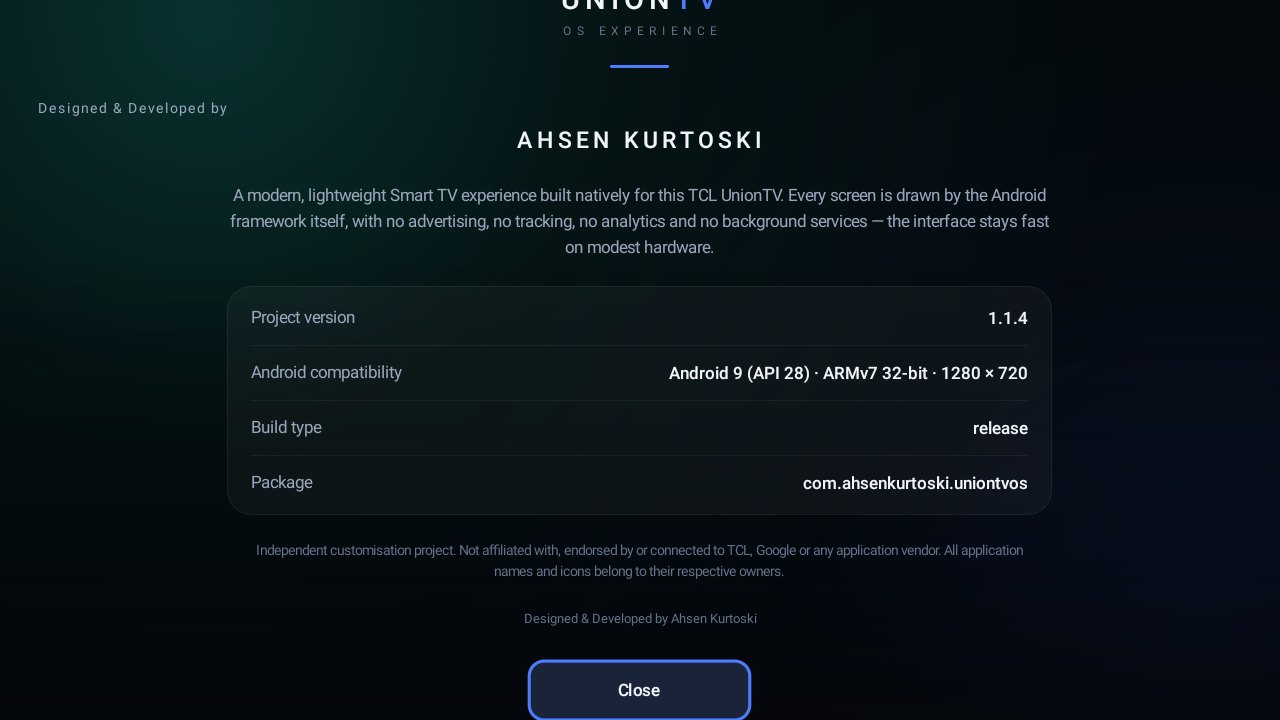
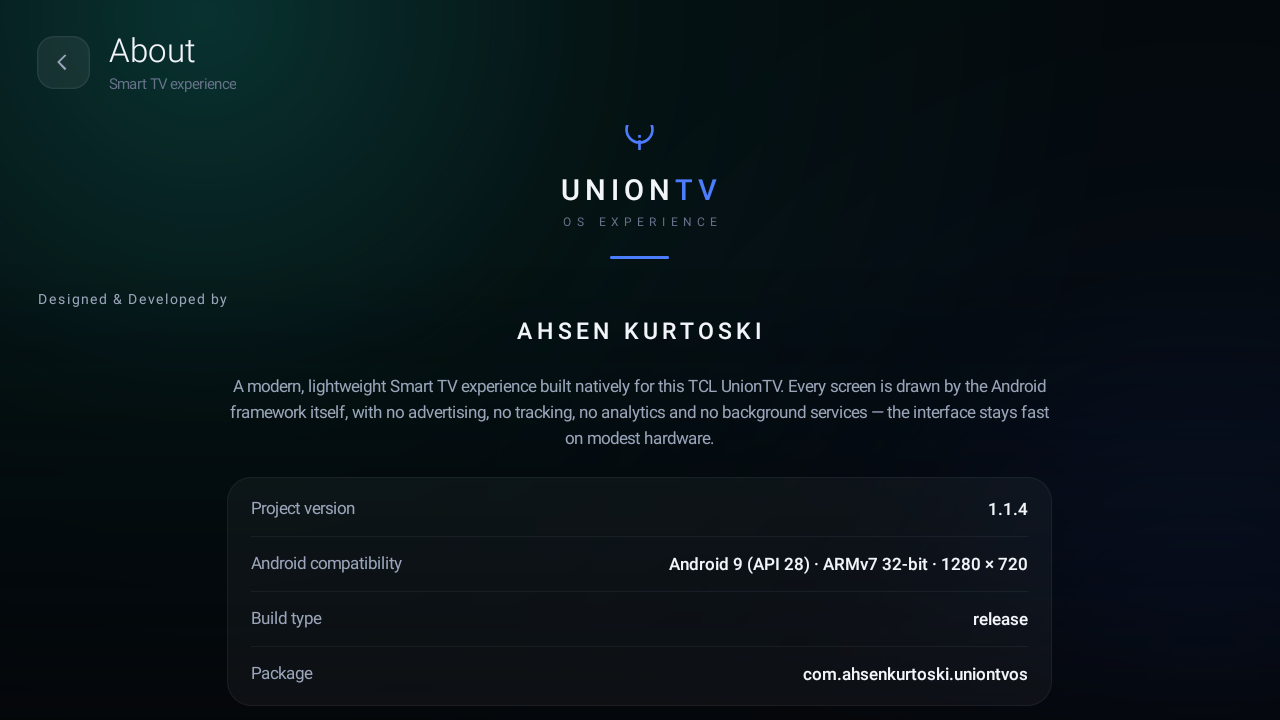
Refresh System and About screenshots from the top
Replace the lower-scroll System capture and cropped About capture with clean top-of-screen 1280x720 frames, and update the gallery descriptions accordingly.

🤖 Generated with Codebuff

diff --git a/docs/SCREENSHOTS.md b/docs/SCREENSHOTS.md
@@ -37,18 +37,18 @@ no Internet permission; this screen is read-only.
 
 ![UnionTV System information](audit/v114-system.png)
 
-Platform/device details. The screenshot shows API level 28, the resolved
-**UnionTV OS Experience** Home, **27** launchable apps, memory/storage and the
-1280×720 display. It was captured at the screen's lower scroll position; the
-upper device facts exist above it.
+Platform/device details from the top of the screen: manufacturer, model,
+architecture, Android 9 / API 28, the resolved **UnionTV OS Experience** Home
+and **27** launchable apps. Memory/storage and display figures follow below.
 
 ## About
 
 ![UnionTV About](audit/v114-about.png)
 
-The project identity and version block: project version **1.1.4**, Android 9 /
-API 28 / ARMv7 / 1280×720, release build, package
-`com.ahsenkurtoski.uniontvos`, and the independence disclaimer.
+The top-of-screen capture includes the complete UnionTV logo and the project
+identity block: project version **1.1.4**, Android 9 / API 28 / ARMv7 /
+1280×720, release build, package `com.ahsenkurtoski.uniontvos`, and the
+independence disclaimer.
 
 ## Startup states
 
